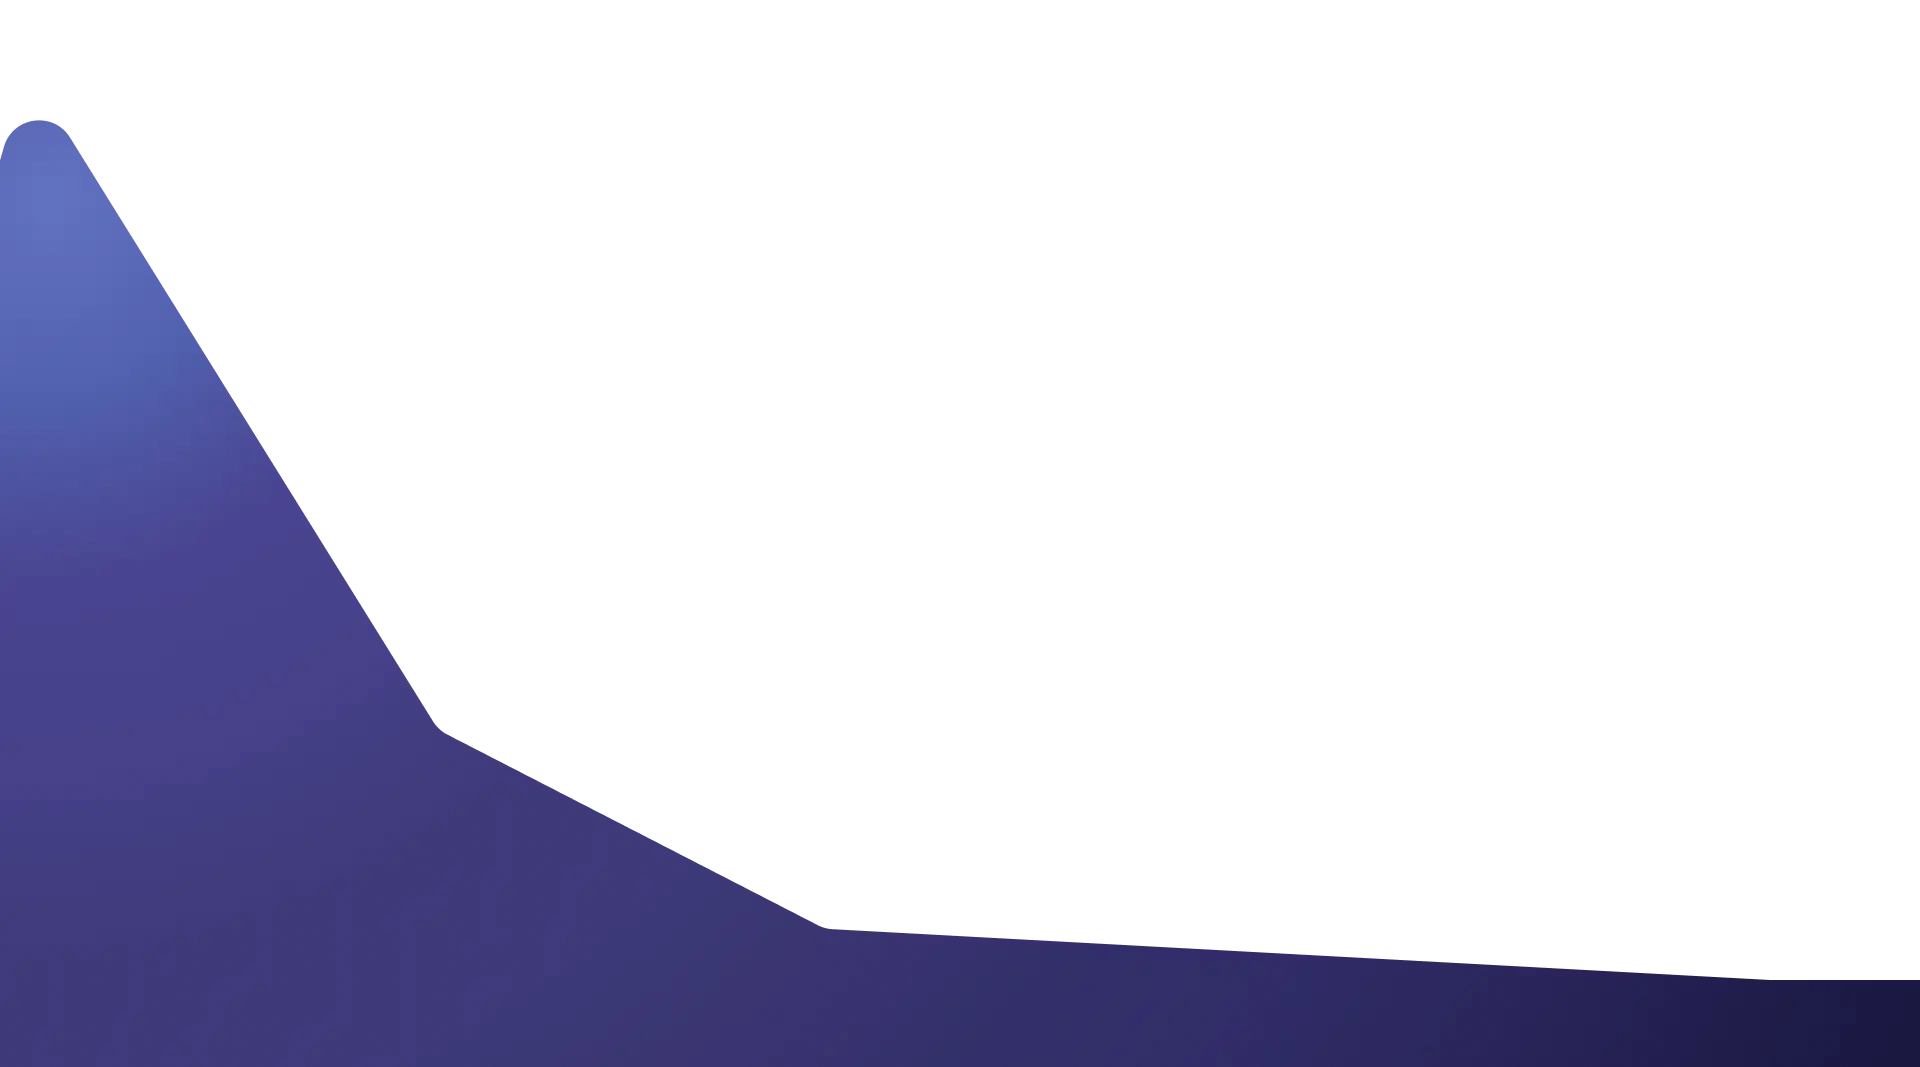
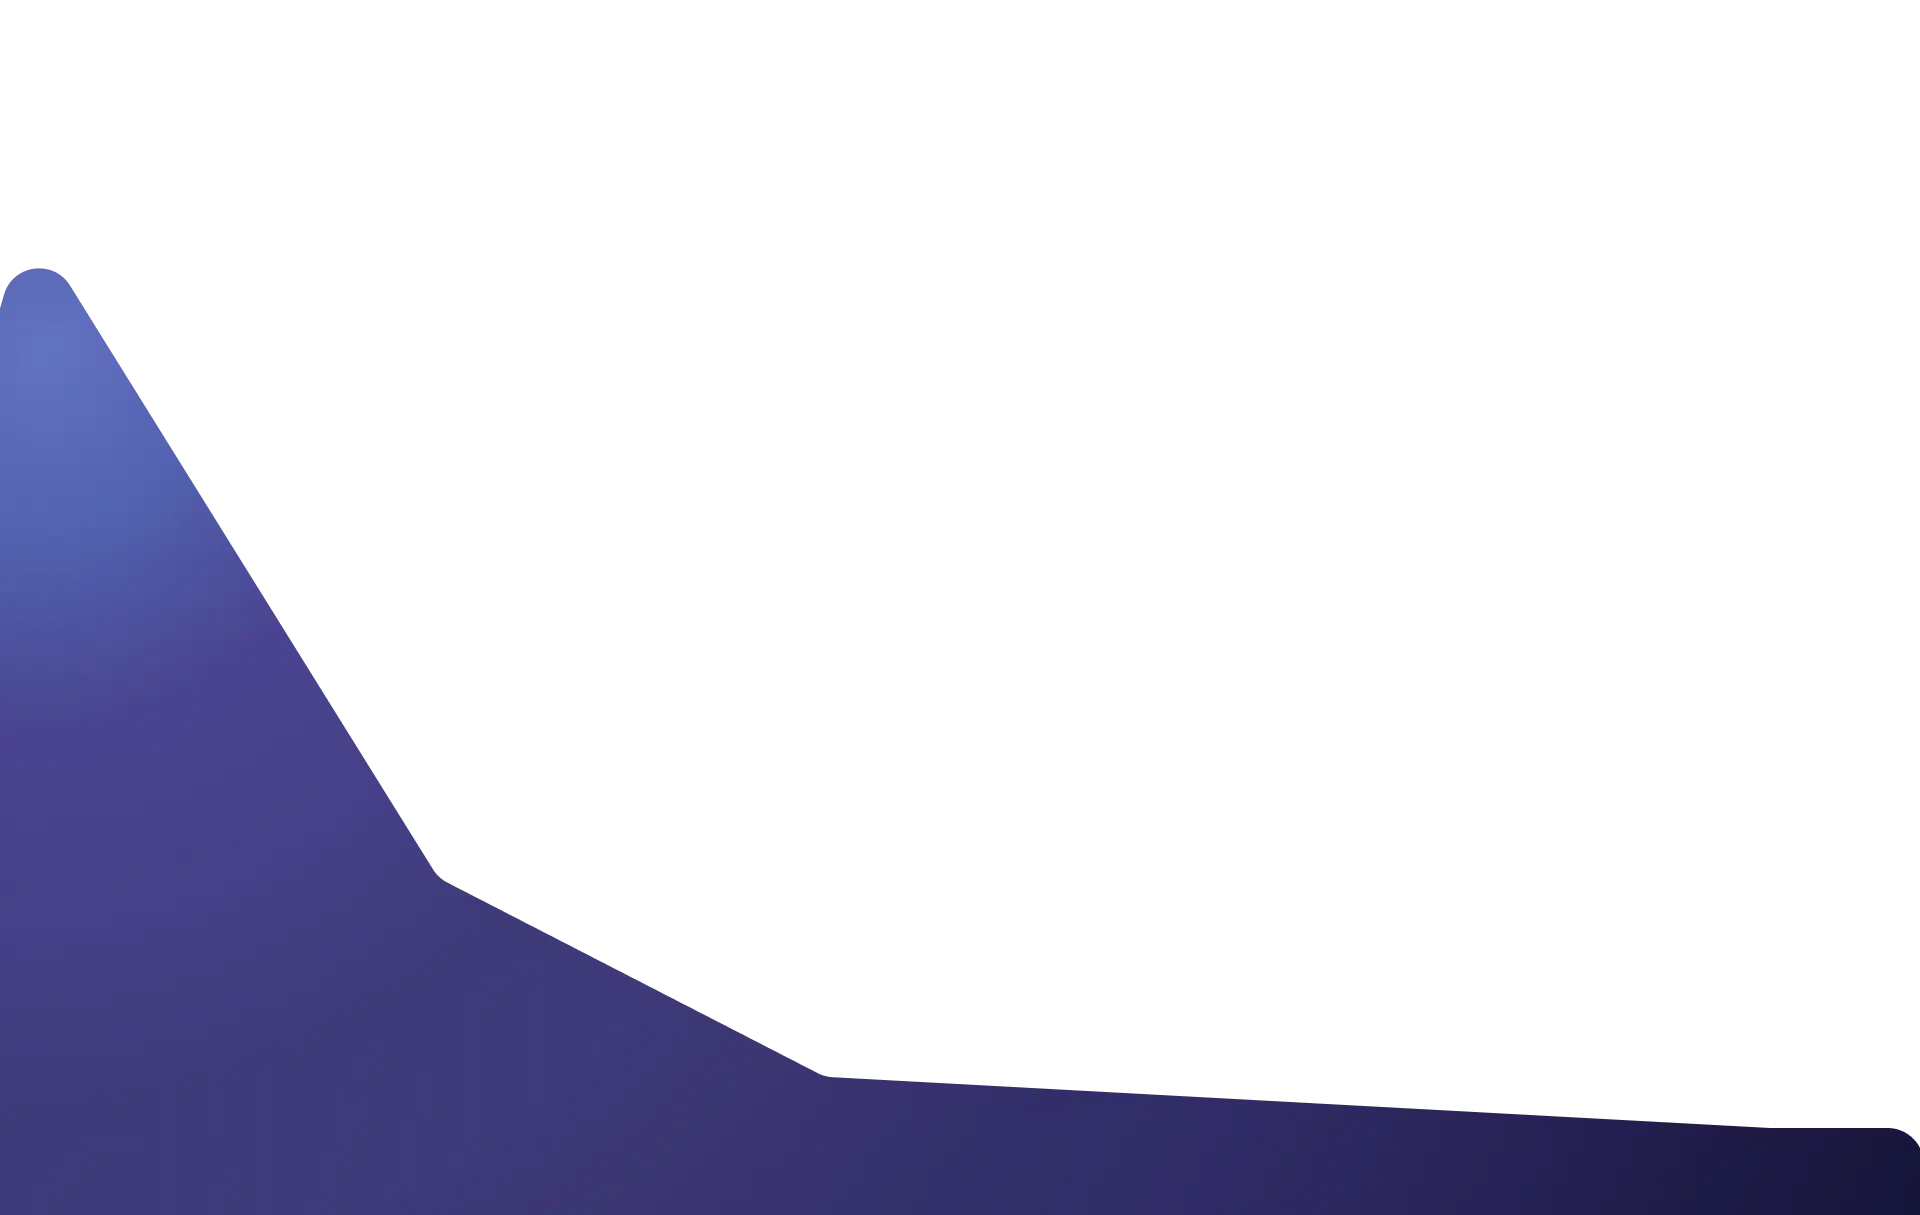
restructured sponsored section to allow for responsiveness

Changed region(s): [[0.0, 0.0928, 1.0, 0.9588]]

diff --git a/new-bolt-website/src/sections/Sponsors.tsx b/new-bolt-website/src/sections/Sponsors.tsx
@@ -1,6 +1,9 @@
 import React from "react";
 import styles from "./Sponsors.module.css";
-import sponsorsImage from "../assets/images/Sponsors.png";
+import sponsorsImage from "../assets/images/Sponsors.webp";
+import leftBuilding from "../assets/images/left_ams.webp";
+import middleBuilding from "../assets/images/uoft.webp";
+import frBuilding from "../assets/images/mastercard.webp";
 
 const Sponsors: React.FC = () => {
   return (
@@ -10,6 +13,24 @@ const Sponsors: React.FC = () => {
           src={sponsorsImage}
           alt="Sponsors"
           className={styles.buildings}
+          loading="lazy"
+        />
+        <img
+          src={leftBuilding}
+          alt="Sponsors"
+          className={styles.leftBuilding}
+          loading="lazy"
+        />
+        <img
+          src={middleBuilding}
+          alt="Sponsors"
+          className={styles.midBuilding}
+          loading="lazy"
+        />
+        <img
+          src={frBuilding}
+          alt="Sponsors"
+          className={styles.frBuilding}
           loading="lazy"
         />
       </div>

diff --git a/new-bolt-website/src/sections/Sponsors.module.css b/new-bolt-website/src/sections/Sponsors.module.css
@@ -1,25 +1,33 @@
 .Sponsors {
-  display: flex;
   align-items: center;
   justify-content: center;
-  min-height: 100vh;
   width: 100vw;
   z-index: 3;
+  position: relative;
 }
 
 .buildings {
   width: 100vw;
   z-index: 3;
+}
+
+.leftBuilding {
+  width: 100vw;
+  z-index: 6;
   position: absolute;
-  top: 190vh;
-  background: linear-gradient(
-    100deg,
-    #3e3a79 0%,
-    #3e3a79 17%,
-    #3c3672 27%,
-    #312f67 47%,
-    #2e2a62 65%,
-    #221f50 79%,
-    #1b1942 93%
-  );
+  left: 0;
+}
+
+.midBuilding {
+  width: 100vw;
+  z-index: 4;
+  position: absolute;
+  left: 0;
+}
+
+.frBuilding {
+  width: 100vw;
+  z-index: 5;
+  position: absolute;
+  left: 0;
 }

diff --git a/new-bolt-website/src/Home.tsx b/new-bolt-website/src/Home.tsx
@@ -15,10 +15,11 @@ const Home: React.FC = () => {
         <Title />
         <About />
       </div>
-      <Sponsors />
-
-      <Events />
-      <Team />
+      <div className={styles.skyline}>
+        <Sponsors />
+        {/* <Events /> */}
+      </div>
+      {/* <Team /> */}
     </>
   );
 };

diff --git a/new-bolt-website/src/Home.module.css b/new-bolt-website/src/Home.module.css
@@ -1,7 +1,7 @@
 .container {
-    background-repeat: no-repeat;
-    display: flex;
-    flex-direction: column;
-    align-items: center;
-    justify-content: center; 
+  background-repeat: no-repeat;
+  display: flex;
+  flex-direction: column;
+  align-items: center;
+  justify-content: center;
 }

diff --git a/new-bolt-website/src/sections/About.module.css b/new-bolt-website/src/sections/About.module.css
@@ -62,7 +62,7 @@
 .mountainImage {
   position: absolute;
   width: 100vw;
-  height: 100vh;
+  height: 100%;
   z-index: 3;
 }
 
